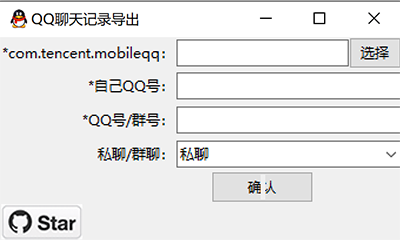
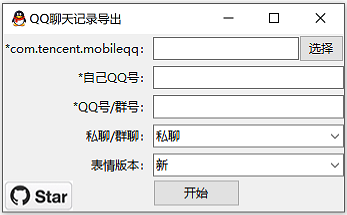
update README

Changed region(s): [[0.0, 0.0, 1.0, 1.0], [0.8934, 0.0558, 0.951, 0.1116], [0.634, 0.0558, 0.6916, 0.1116]]

diff --git a/README.md b/README.md
@@ -25,8 +25,8 @@ data\data\com.tencent.mobileqq
 
 ![GUI_image](./img/GUI.png)
 
-com.tencent.mobileqq：选择备份后的相应文件夹，一般为`apps/com.tencent.mobileqq`
-表情版本：默认为新版QQ表情。如果你的聊天记录来自很早以前（比如我），可以切换为旧版的表情
+- com.tencent.mobileqq：选择备份后的相应文件夹，一般为`apps/com.tencent.mobileqq`
+- 表情版本：默认为新版QQ表情。如果你的聊天记录来自很早以前（比如我），可以切换为旧版的表情
 
 ## 输出截图
 
